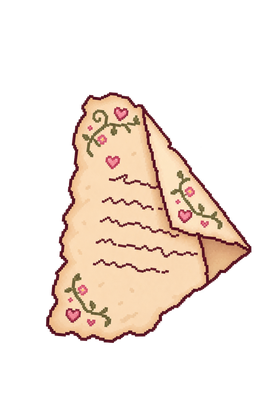
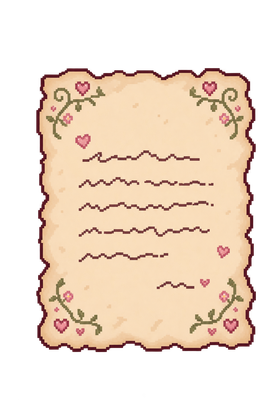
Fix swapped flat/fold wish-paper assets, give the card a real centered shape, slow the fold-and-fly sequence

diff --git a/index.html b/index.html
@@ -106,11 +106,11 @@ button{font-family:'VT323',monospace;cursor:pointer;}
 
 /* step 1: write your wish */
 #stageWish{position:relative;}
-.paper-wish{position:relative;width:230px;max-width:70vw;}
+.paper-wish{position:relative;width:230px;max-width:64vw;aspect-ratio:275/420;margin:0 auto;}
 .paper-wish.folding .paper-layer.show{transform:scale(.9) rotate(-4deg);}
-.paper-layer{position:absolute;inset:0;width:100%;height:auto;object-fit:contain;opacity:0;transform:scale(1) rotate(0);transition:opacity .3s ease,transform .45s cubic-bezier(.34,1.56,.64,1);filter:drop-shadow(4px 6px 0 rgba(122,44,70,.22));}
+.paper-layer{position:absolute;inset:0;width:100%;height:100%;object-fit:contain;opacity:0;transform:scale(1) rotate(0);transition:opacity .45s ease,transform .65s cubic-bezier(.34,1.56,.64,1);filter:drop-shadow(4px 6px 0 rgba(122,44,70,.22));}
 .paper-layer.show{opacity:1;}
-.paper-wish.plane-fly .paper-layer.plane{transition:transform .9s cubic-bezier(.55,0,.85,.35),opacity .6s ease .25s;transform:translate(150px,-240px) rotate(38deg) scale(.3);opacity:0;}
+.paper-wish.plane-fly .paper-layer.plane{transition:transform 1.3s cubic-bezier(.55,0,.85,.35),opacity .9s ease .4s;transform:translate(150px,-240px) rotate(38deg) scale(.3);opacity:0;}
 .paper-content{position:absolute;left:16%;right:16%;top:22%;bottom:20%;display:flex;flex-direction:column;gap:12px;align-items:center;justify-content:center;text-align:center;}
 .paper-content .dialogue-text{font-size:.92rem;line-height:1.35;color:var(--deep);}
 .paper-content .wish-input{width:100%;background:transparent;border:none;border-bottom:2px dashed var(--rose);font-family:'VT323',monospace;font-size:1.05rem;color:var(--ink);text-align:center;padding:4px 2px;}
@@ -766,16 +766,16 @@ function lockInWish(){
   const flat=document.getElementById('paperFlat'), fold=document.getElementById('paperFold'), plane=document.getElementById('paperPlane');
   document.getElementById('paperContent').classList.add('fadeOut');
   wrap.classList.add('folding');
-  setTimeout(()=>{ flat.classList.remove('show'); fold.classList.add('show'); }, 350);
-  setTimeout(()=>{ fold.classList.remove('show'); plane.classList.add('show'); }, 750);
-  setTimeout(()=>{ wrap.classList.add('plane-fly'); spawnDust(wrap); }, 1150);
-  setTimeout(()=>{ document.getElementById('blackout').classList.add('show'); }, 1800);
+  setTimeout(()=>{ flat.classList.remove('show'); fold.classList.add('show'); }, 650);
+  setTimeout(()=>{ fold.classList.remove('show'); plane.classList.add('show'); }, 1350);
+  setTimeout(()=>{ wrap.classList.add('plane-fly'); spawnDust(wrap); }, 2050);
+  setTimeout(()=>{ document.getElementById('blackout').classList.add('show'); }, 3150);
   setTimeout(()=>{
     document.getElementById('stageWish').classList.add('hidden');
     document.getElementById('stageMatch').classList.remove('hidden');
     document.getElementById('gatekeeper').classList.add('dark-mode');
-  }, 2150);
-  setTimeout(()=>{ document.getElementById('blackout').classList.remove('show'); }, 2500);
+  }, 3550);
+  setTimeout(()=>{ document.getElementById('blackout').classList.remove('show'); }, 3950);
 }
 document.getElementById('lockWishBtn').addEventListener('click', lockInWish);
 
